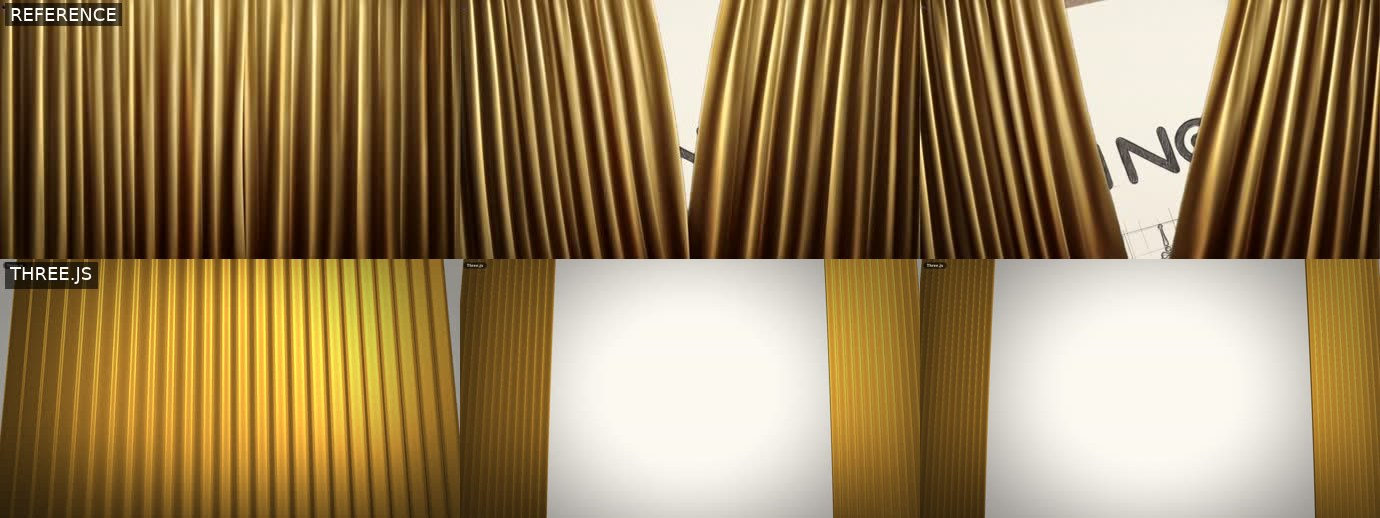
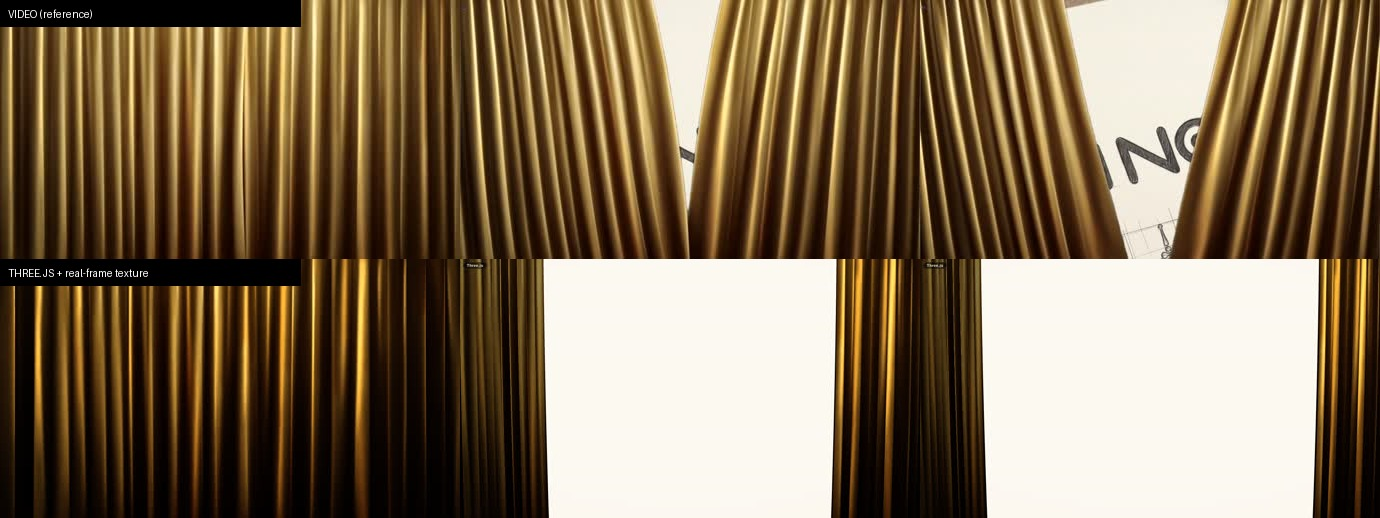
ต้นแบบม่านสองทาง สำหรับเลือก
curtain-video.html  ใช้คลิปต้นฉบับตรง ๆ ตรง 100% ทุกเฟรม
                    เพิ่มแค่การค้างเฟรมที่ 5.50 วิ (ช่วงที่ภาพนิ่งอยู่แล้ว)
                    เพื่อรอคิวพิธี แล้วเล่นต่อถึงจบ ค้างเฟรมสุดท้ายรอ

curtain3d.html      Three.js ที่ลอกสีจากเฟรมจริงมาเป็นพื้นผิว
                    สีตรงต้นฉบับ แต่การเคลื่อนไหวลอกไม่ได้
                    (cloth simulation จาก AE คำนวณย้อนกลับไม่ได้)

ยังไม่ได้ต่อเข้าเด็คจริง อยู่ใน proto/ อย่างเดียว
คลิป mp4 ไม่เข้า git (29MB) วางไว้ในเครื่อง

diff --git a/proto/curtain-video.html b/proto/curtain-video.html
@@ -1,0 +1,128 @@
+<!doctype html>
+<html lang="th">
+<head>
+<meta charset="utf-8">
+<meta name="viewport" content="width=device-width,initial-scale=1">
+<title>ม่านจากคลิปจริง · AI NORA</title>
+<style>
+:root{ --bg:#0B0906; --line:#2E2619; --ink:#F2E9D7; --muted:#9C8F76; --gold:#E3C468 }
+*{box-sizing:border-box}
+body{margin:0;background:var(--bg);color:var(--ink);
+  font-family:-apple-system,BlinkMacSystemFont,"Noto Sans Thai","Segoe UI",sans-serif}
+header{padding:14px 18px;border-bottom:1px solid var(--line)}
+h1{font-size:16px;margin:0 0 3px;font-weight:700}
+.note{font-size:12px;color:var(--muted);line-height:1.6}
+
+#stage{position:relative;width:100%;aspect-ratio:16/9;background:#000;overflow:hidden}
+#stage video{position:absolute;inset:0;width:100%;height:100%;object-fit:cover;display:block}
+/* สไลด์หน้าแรกจำลอง — ในเด็คจริงคือ .slide ตัวแรกของชุดหลัก */
+#slide1{position:absolute;inset:0;display:flex;align-items:center;justify-content:center;
+  background:radial-gradient(circle at 50% 45%,#1B2233,#090C14 70%);opacity:0;transition:opacity .5s}
+#slide1 b{font-size:clamp(20px,4vw,54px);letter-spacing:.14em;color:#E3C468;font-weight:800}
+body.done #slide1{opacity:1}
+
+#bar{display:flex;gap:8px;padding:12px 18px;flex-wrap:wrap;border-bottom:1px solid var(--line)}
+button{font:inherit;font-size:13px;font-weight:600;color:var(--ink);background:#241E16;
+  border:1px solid var(--line);border-radius:10px;padding:10px 16px;cursor:pointer}
+button.pri{background:linear-gradient(180deg,#E3C468,#C29B31);color:#2A2208;border-color:#8E7124}
+button.on{background:var(--gold);color:#2A2208;border-color:#8E7124}
+button[disabled]{opacity:.4;cursor:default}
+#state{padding:10px 18px;font-size:13px;color:var(--gold);font-variant-numeric:tabular-nums}
+footer{padding:16px 18px 40px;font-size:12px;color:var(--muted);line-height:1.8}
+code{background:#241E16;border-radius:5px;padding:1px 6px}
+b.hi{color:var(--ink)}
+</style>
+</head>
+<body>
+
+<header>
+  <h1>ม่านจากคลิปจริง — ตรงต้นฉบับ 100%</h1>
+  <div class="note">
+    ไม่ได้วาดใหม่ ไม่ได้จำลอง เป็นพิกเซลเดียวกับไฟล์ที่ส่งมาทุกเฟรม
+    สิ่งที่เพิ่มเข้าไปคือ<b class="hi">การหยุดค้าง</b>ตรงช่วงที่ภาพนิ่งอยู่แล้ว เพื่อรอคิวพิธี
+  </div>
+</header>
+
+<div id="bar">
+  <button id="b1">๑ ตั้งม่าน</button>
+  <button class="pri" id="b2">๒ เปิดม่าน</button>
+  <button id="b3">๓ ชุดหลัก</button>
+</div>
+<div id="state">—</div>
+
+<div id="stage">
+  <video id="v" muted playsinline preload="auto" src="INTRO_AINORA_.mp4"></video>
+  <div id="slide1"><b>สไลด์หน้าแรก</b></div>
+</div>
+
+<footer>
+  <b class="hi">จังหวะที่ใช้</b> — วัดมาจากไฟล์จริง<br>
+  ๑ <b class="hi">ตั้งม่าน</b> ค้างเฟรมที่ <code>5.50</code> วิ — ช่วง 1.5–5.9 วิ ภาพนิ่งสนิทอยู่แล้ว
+  ค้างไว้กี่ชั่วโมงก็ได้ ไม่มีใครดูออกว่าหยุด<br>
+  ๒ <b class="hi">เปิดม่าน</b> เล่นจาก <code>5.50</code> ต่อไปเอง ม่านแหวกที่ ~6.9 วิ
+  (ได้จังหวะหายใจ 1.4 วิ ก่อนม่านขยับ) แล้วเล่นยาวถึงจบที่ <code>23.68</code> วิ<br>
+  ๓ <b class="hi">ชุดหลัก</b> ค้างเฟรมสุดท้ายรอ แล้วค่อยตัดเข้าสไลด์<br><br>
+
+  <b class="hi">เพราะค้างตรงเฟรมที่นิ่งอยู่แล้ว รอยต่อจึงมองไม่เห็นเลย</b> —
+  ถ้าไปค้างตรงเฟรมที่กำลังเคลื่อนไหว จะเห็นภาพกระตุกตอนกดเล่นต่อ
+</footer>
+
+<script>
+/* ค่าที่วัดจากไฟล์จริงด้วยการเทียบ md5 ของแต่ละเฟรม
+   ช่วงที่เฟรมซ้ำกันสนิท = ช่วงที่ค้างได้โดยไม่มีใครสังเกตเห็น */
+const HOLD  = 5.50;    // เฟรมม่านปิดที่ใช้ค้างรอคิว
+const PART  = 6.90;    // ม่านเริ่มแหวก
+const END   = 23.60;   // เฟรมสุดท้าย
+
+const v = document.getElementById('v');
+const st = document.getElementById('state');
+let mode = '';
+
+function paint(){
+  document.getElementById('b1').classList.toggle('on', mode === 'hold');
+  document.getElementById('b2').classList.toggle('on', mode === 'open');
+  document.getElementById('b3').classList.toggle('on', mode === 'done');
+  document.getElementById('b2').disabled = mode !== 'hold';
+  document.body.classList.toggle('done', mode === 'done');
+  const t = v.currentTime || 0;
+  st.textContent = mode === 'hold' ? `ตั้งม่าน · ค้างที่ ${t.toFixed(2)} วิ · รอกดเปิดม่าน`
+    : mode === 'open' ? (t < PART ? `กำลังเปิด · ${t.toFixed(2)} วิ · อีก ${(PART-t).toFixed(1)} วิม่านจะแหวก`
+        : t >= END - 0.15 ? `ม่านเปิดสุดแล้ว · ค้างเฟรมสุดท้าย รอกดชุดหลัก`
+        : `กำลังเปิด · ${t.toFixed(2)} วิ`)
+    : mode === 'done' ? 'เข้าชุดหลักแล้ว'
+    : 'กดตั้งม่านเพื่อเริ่ม';
+}
+
+function setHold(){
+  mode = 'hold';
+  v.pause();
+  v.currentTime = HOLD;
+  paint();
+}
+function openCurtain(){
+  if(mode !== 'hold') return;
+  mode = 'open';
+  v.play().catch(()=>{});
+  paint();
+}
+function toMain(){
+  mode = 'done';
+  v.pause();
+  paint();
+}
+
+/* ค้างเฟรมสุดท้ายไว้ ไม่ให้วนกลับไปต้นคลิปเอง
+   คลิปจบแล้วต้องรอสแตฟฟ์กดเข้าชุดหลัก ช่วงกล่าวเปิดงานยาวไม่เท่ากันทุกครั้ง */
+v.addEventListener('timeupdate', () => {
+  if(mode === 'open' && v.currentTime >= END){ v.pause(); v.currentTime = END; }
+  paint();
+});
+v.addEventListener('loadedmetadata', setHold);   // metadata พอแล้ว ไม่ต้องรอเฟรมแรก
+
+document.getElementById('b1').onclick = setHold;
+document.getElementById('b2').onclick = openCurtain;
+document.getElementById('b3').onclick = toMain;
+paint();
+</script>
+</body>
+</html>
